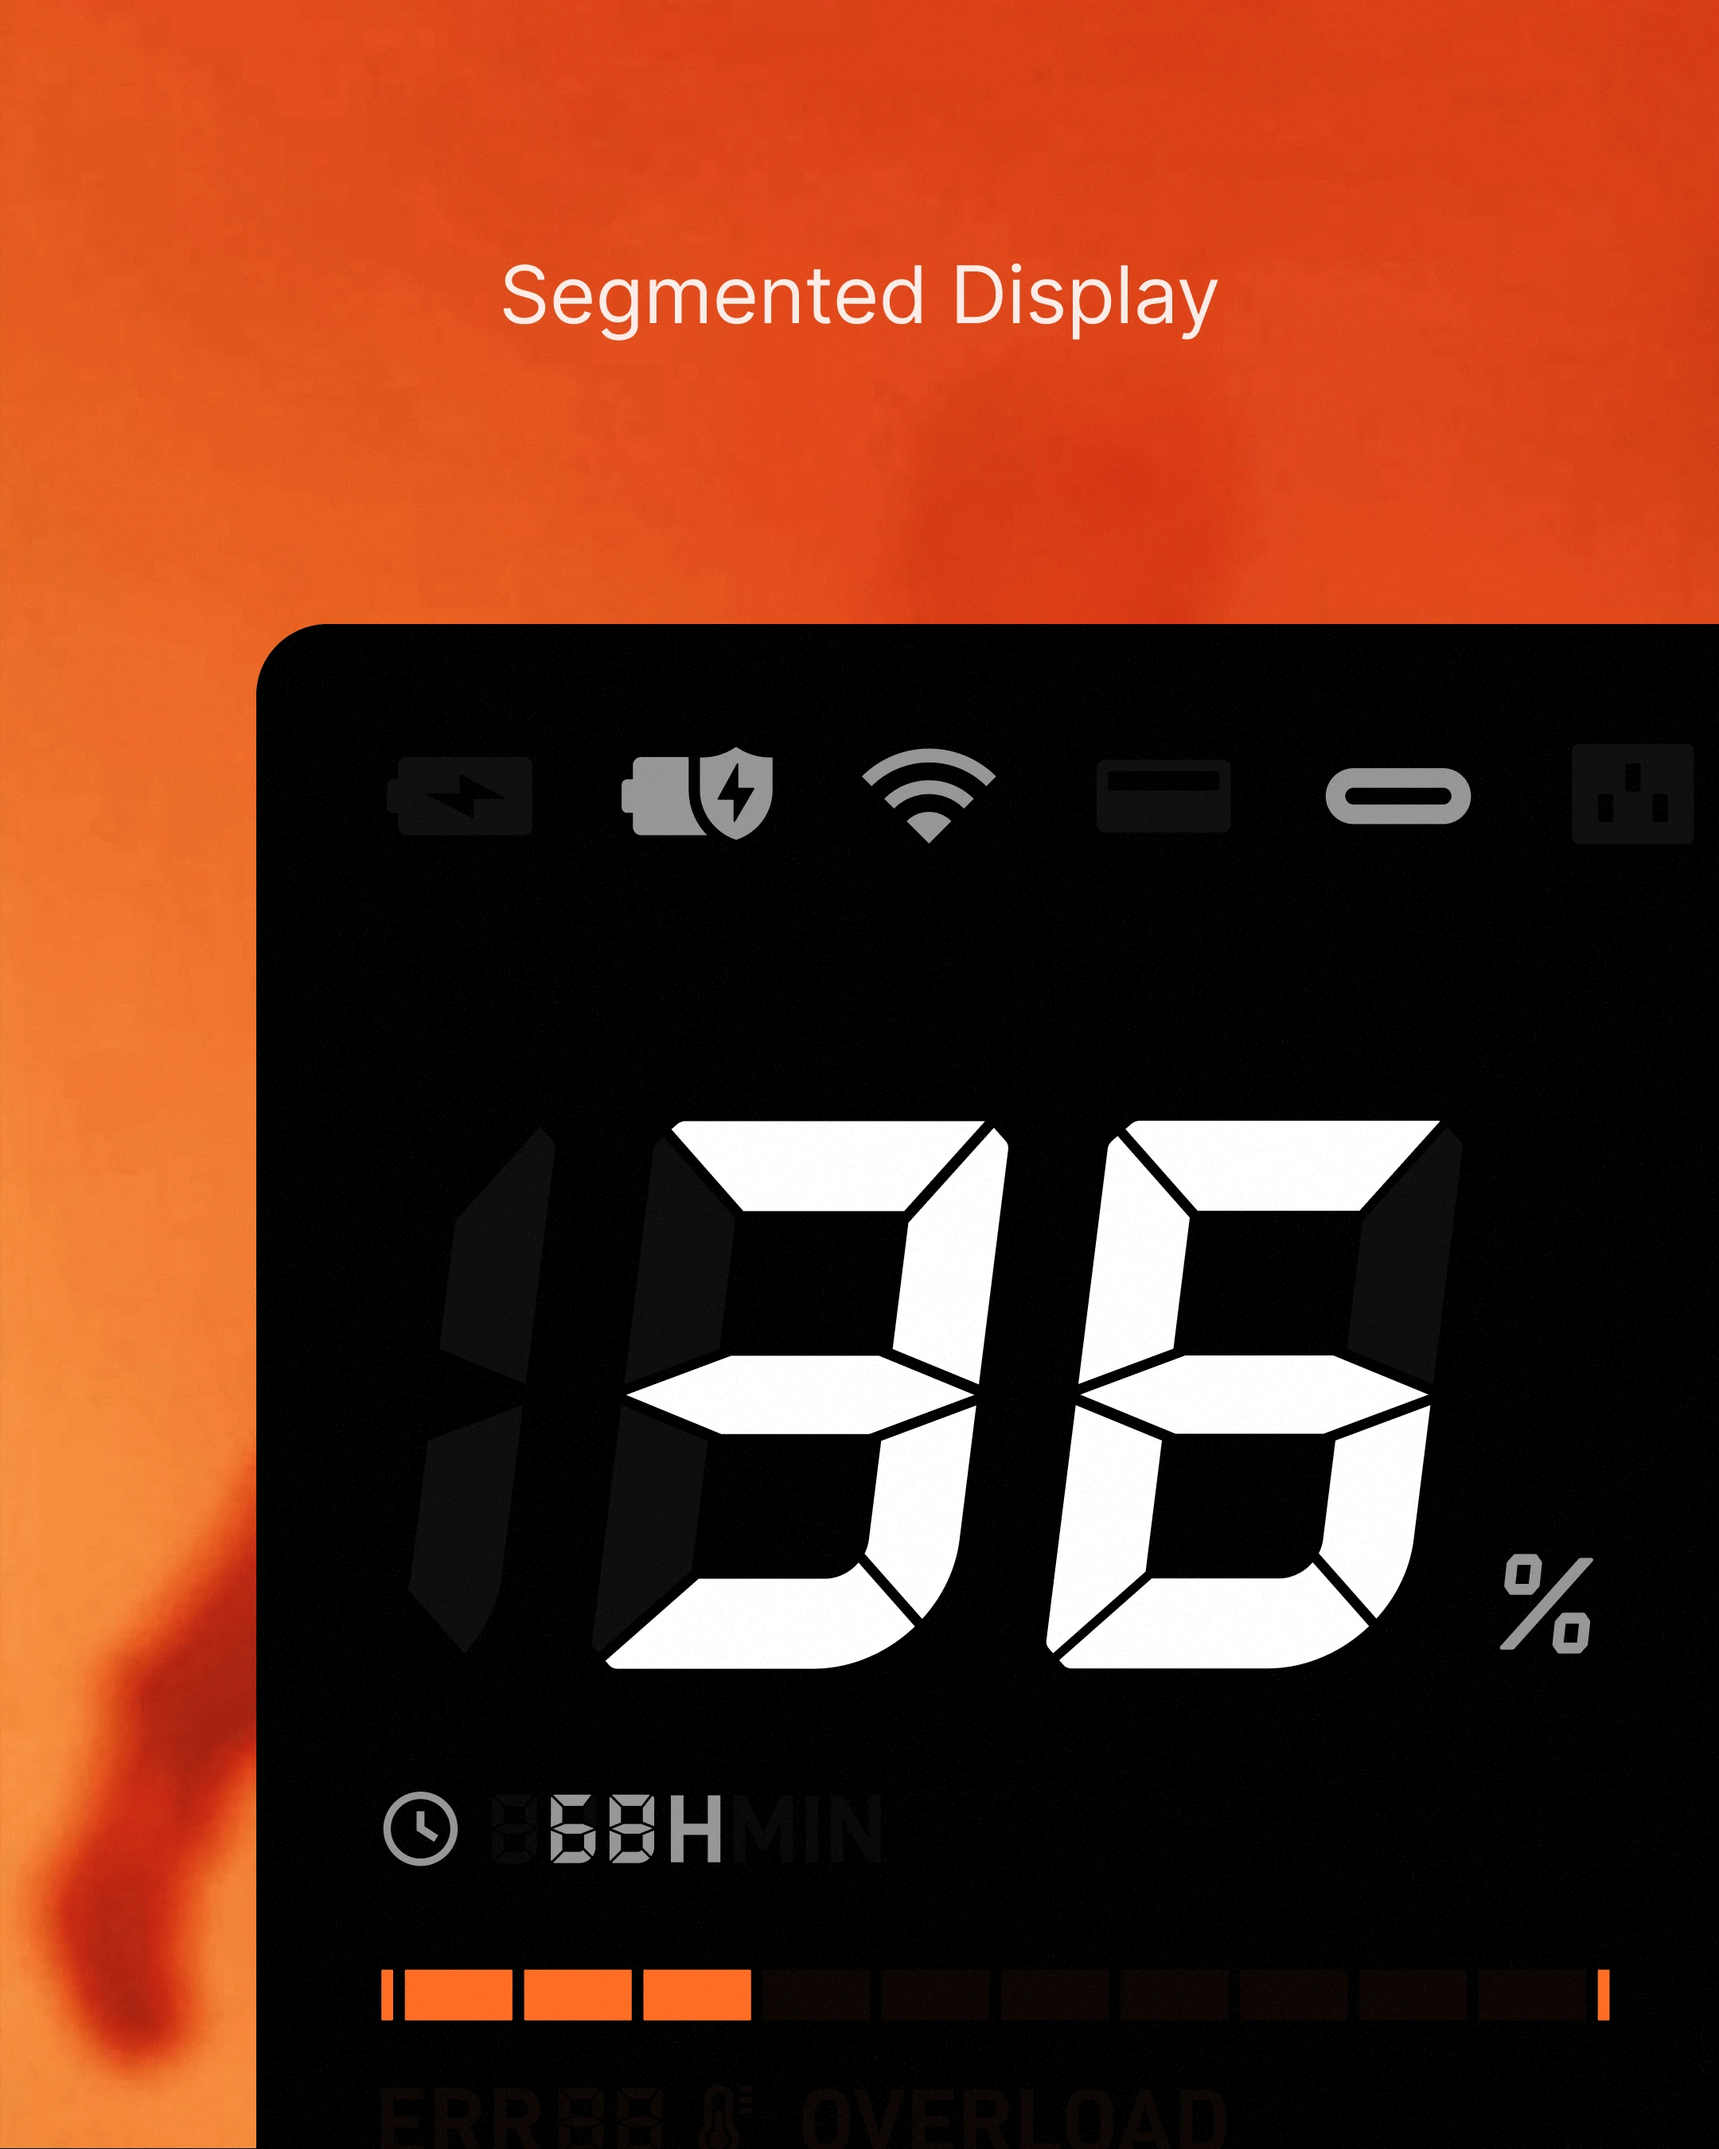
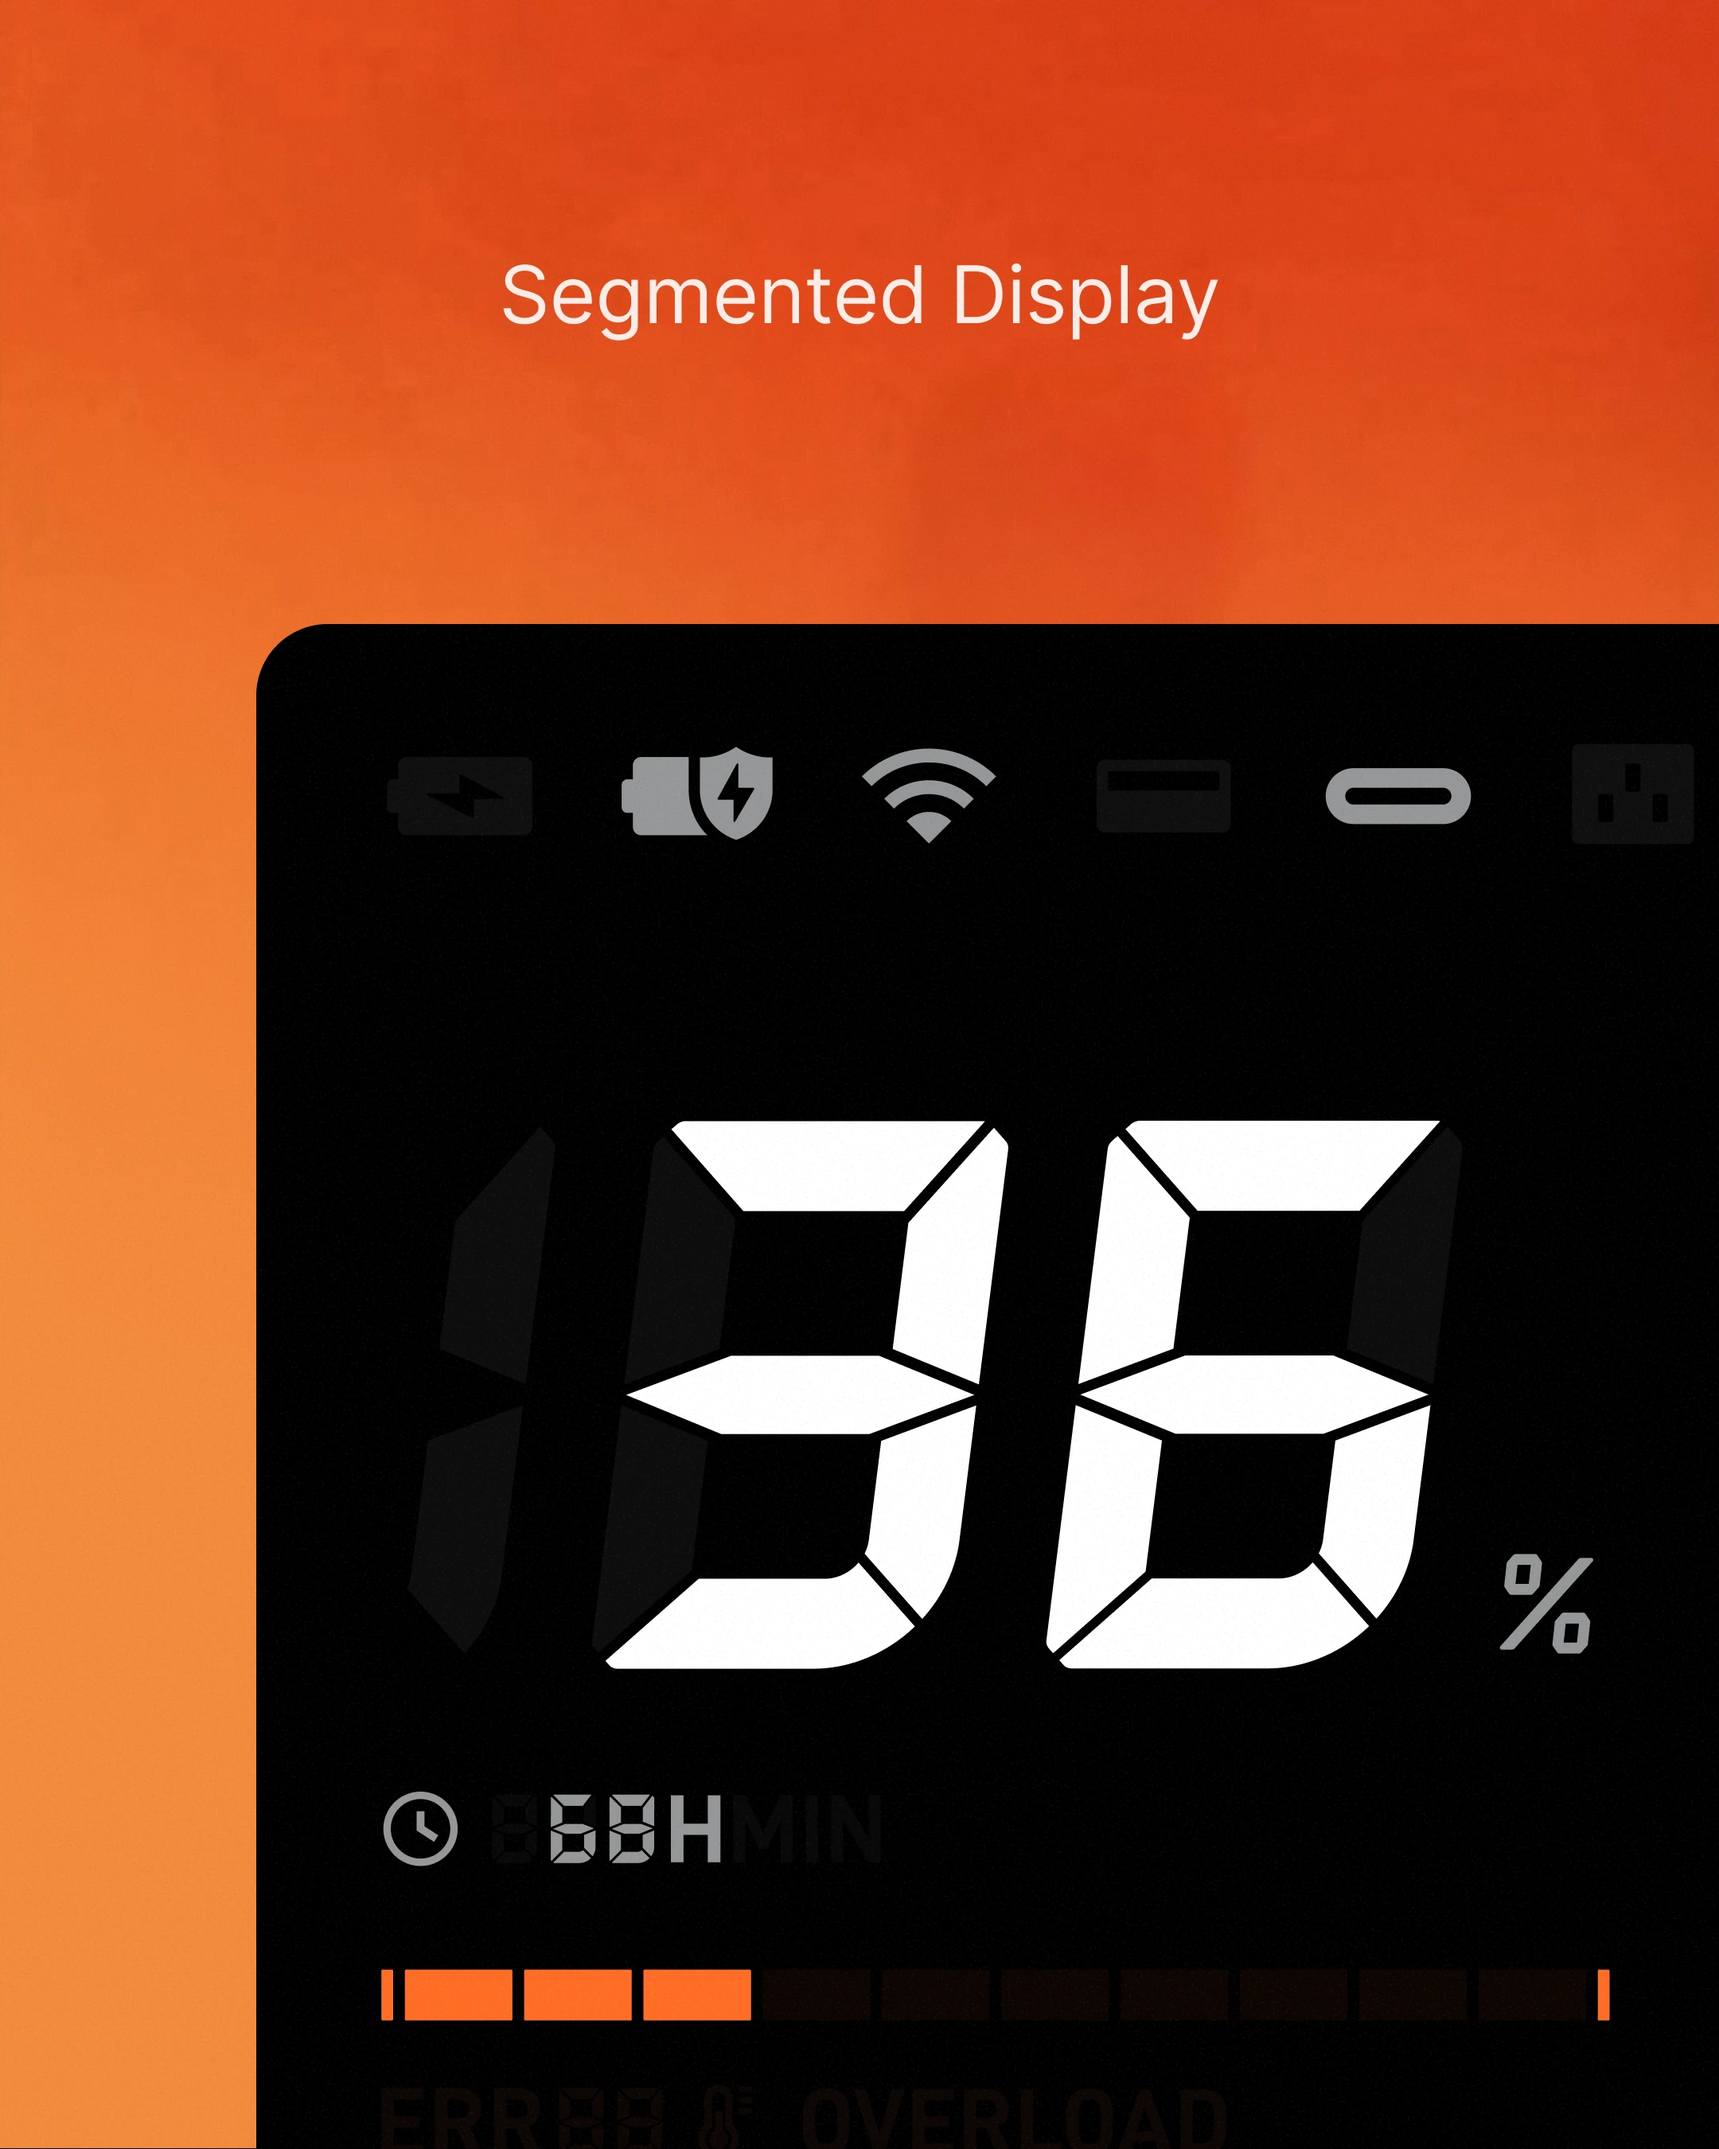
Disable Pinterest hover buttons on portfolio media

Changed region(s): [[0.0, 0.6533, 0.1551, 0.9644]]

diff --git a/app/project-link.tsx b/app/project-link.tsx
@@ -17,5 +17,5 @@ export function ProjectLink({ project, featuredIndex }: { project: ProjectData; 
   const cover = sourceCover;
   const isVideo = Boolean(cover?.split('?')[0].endsWith('.mp4'));
 
-  return <Link className="project-card" href={href} data-prefetch-media={projectEntryVideos[project.slug]}><div className={`card-media ${project.color}`}>{cover ? isVideo ? <ViewportVideo src={cover} mobile /> : <Image src={cover} fill sizes="(max-width: 800px) 100vw, (max-width: 1200px) 50vw, 33vw" alt="" loading={featuredIndex === 0 ? 'eager' : 'lazy'} unoptimized draggable={false} data-pin-nopin="true" /> : <span>{(project.titleEn ?? project.title).slice(0, 1)}</span>}</div><div className="card-copy"><h2>{project.titleEn ?? project.title}</h2><p><Localized en={project.textEn} zh={project.text} /></p>{featuredIndex !== undefined ? <small>( {String(featuredIndex + 1).padStart(2, '0')} )</small> : null}</div></Link>;
+  return <Link className="project-card" href={href} data-prefetch-media={projectEntryVideos[project.slug]}><div className={`card-media ${project.color}`}>{cover ? isVideo ? <ViewportVideo src={cover} mobile /> : <Image src={cover} fill sizes="(max-width: 800px) 100vw, (max-width: 1200px) 50vw, 33vw" alt="" loading={featuredIndex === 0 ? 'eager' : 'lazy'} unoptimized draggable={false} data-pin-nopin="true" data-pin-no-hover="true" /> : <span>{(project.titleEn ?? project.title).slice(0, 1)}</span>}</div><div className="card-copy"><h2>{project.titleEn ?? project.title}</h2><p><Localized en={project.textEn} zh={project.text} /></p>{featuredIndex !== undefined ? <small>( {String(featuredIndex + 1).padStart(2, '0')} )</small> : null}</div></Link>;
 }

diff --git a/app/home-carousel.tsx b/app/home-carousel.tsx
@@ -315,7 +315,10 @@ export function HomeCarousel() {
 
       void Promise.all(
         LETTER_FILES.map(async (name, index) => {
-          const data = await loadJson(`/lottie/letters/${name}.json`);
+          const url = name === 'H1'
+            ? '/lottie/letters/H1.json?v=20261009-h1-3'
+            : `/lottie/letters/${name}.json`;
+          const data = await loadJson(url);
           markLottieProgress(40 + ((index + 1) / LETTER_FILES.length) * 35);
           return { name, data };
         }),
@@ -561,7 +564,7 @@ export function HomeCarousel() {
       <div ref={trackRef} className="cf-covers-track cf-covers-desktop" style={{ height: `${featured.length + 1}00vh` }}>
         <div className="cf-covers-sticky">
           {featured.map((project, index) => <Link className="cf-cover" href={`/work/${project.slug}`} key={project.slug} ref={(element) => { coverRefs.current[index] = element; }}>
-            {coverMode === 'desktop' ? <Image src={coverFor(project)} alt="" fill sizes="100vw" loading="lazy" unoptimized draggable={false} /> : null}
+            {coverMode === 'desktop' ? <Image src={coverFor(project)} alt="" fill sizes="100vw" loading="lazy" unoptimized draggable={false} data-pin-nopin="true" data-pin-no-hover="true" /> : null}
             <span className="cf-project-index">{String(index + 1).padStart(2, '0')}</span>
             <span className="cf-project-name">{String(project.titleEn ?? project.title).split('').map((character, letter) => <span className="cf-name-letter" key={`${character}-${letter}`}>{character === ' ' ? '\u00a0' : character}</span>)}</span>
             <span className="cf-project-description">

diff --git a/app/globals.css b/app/globals.css
@@ -41,7 +41,7 @@ a:focus-visible,button:focus-visible,summary:focus-visible{outline:2px solid var
 .language-toggle{display:flex;align-items:center;justify-content:center;flex:0 0 3.2em;width:3.2em;height:1em;margin:0;padding:0;border:0;background:transparent;color:#7d7d7d;font-family:Aspekta,Arial,sans-serif;font-size:18.75px;font-weight:500;letter-spacing:.2px;line-height:1;text-align:center;cursor:pointer;transition:color .2s ease;-webkit-tap-highlight-color:transparent}
 .language-toggle-content{display:flex;align-items:center;gap:.08em;white-space:nowrap}
 .language-toggle i{font:inherit;font-style:normal;color:inherit;pointer-events:none}
-.language-option-zh{display:inline-block;font-family:"OPPO Sans 4.0","OPPO Sans",sans-serif;font-size: 18.75px;font-weight: 600;line-height:1}
+.language-option-zh{display:inline-block;font-family:"OPPO Sans 4.0","OPPO Sans",sans-serif;font-size:16.75px;font-weight:600;line-height:1}
 @media(hover:hover){
   .nav nav>a:hover,.nav nav>a:focus-visible,.wordmark:hover,.wordmark:focus-visible{color:#fff;opacity:1}
   .wordmark:hover .nav-logo,.wordmark:focus-visible .nav-logo{filter:brightness(0) invert(1)}

diff --git a/app/header.tsx b/app/header.tsx
@@ -76,7 +76,7 @@ export function Header() {
   const links = <><Link className={pathname === '/work' ? 'active' : ''} href="/work" aria-label="Work" aria-current={pathname === '/work' ? 'page' : undefined}>Work</Link><Link className={pathname.startsWith('/about') ? 'active' : ''} href="/about" aria-label="About" aria-current={pathname.startsWith('/about') ? 'page' : undefined}>About</Link></>;
 
   /* the designed logo mark is used on every page */
-  const identity = <img className="nav-logo" src="/logo.svg" alt="Shane Zhu" />;
+  const identity = <img className="nav-logo" src="/logo.svg" alt="Shane Zhu" data-pin-nopin="true" data-pin-no-hover="true" />;
 
   return <header ref={headerRef} className={`nav nav-home${hidden ? ' nav-hidden' : ''}${menuOpen ? ' is-menu-open' : ''}`} onKeyDown={(event) => {
     if (event.key === 'Escape' && menuOpen) {

diff --git a/app/home-particle-field.tsx b/app/home-particle-field.tsx
@@ -595,7 +595,7 @@ export function HomeParticleField({
 
   return <div ref={fieldRef} className="cf-hero-particles">
     {/* eslint-disable-next-line @next/next/no-img-element -- sampling source for WebGL only; never shown */}
-    <img ref={imageRef} alt="" draggable={false} decoding="async" aria-hidden="true" />
+    <img ref={imageRef} alt="" draggable={false} decoding="async" aria-hidden="true" data-pin-nopin="true" data-pin-no-hover="true" />
     <canvas ref={canvasRef} aria-hidden="true" />
     <button
       className="cf-motion-orb"

diff --git a/app/about/page.tsx b/app/about/page.tsx
@@ -61,6 +61,8 @@ export default function About() {
               height={1049}
               decoding="async"
               fetchPriority="high"
+              data-pin-nopin="true"
+              data-pin-no-hover="true"
             />
           </div>
           <figcaption><Localized en="Shane Zhu" zh="朱晓生" /><br /><Localized en="Senior UI Designer · Shenzhen, CN" zh="高级 UI 设计师 · 中国深圳" /></figcaption>

diff --git a/app/work/[slug]/viewport-video.tsx b/app/work/[slug]/viewport-video.tsx
@@ -343,6 +343,8 @@ export function ViewportVideo({
         draggable={false}
         controlsList="nodownload nofullscreen"
         disablePictureInPicture
+        data-pin-nopin="true"
+        data-pin-no-hover="true"
       >
         {mobile && mobileSrc !== src ? <source src={mobileSrc} media="(max-width: 1024px), (pointer: coarse)" type="video/mp4" /> : null}
         <source src={src} type="video/mp4" />

diff --git a/app/work/[slug]/page.tsx b/app/work/[slug]/page.tsx
@@ -75,6 +75,8 @@ function Placeholder({ number, projectSlug, tone = 'dark', showSlotNumber = true
     ? `${src}?v=20261008-faststart`
     : src === '/media/dji-avinox/08.webp'
     ? `${src}?v=20261008-avinox-08`
+    : src === '/media/dji-power/09.webp'
+    ? `${src}?v=20261009-power-09`
     : src && projectSlug === 'dji-power'
     ? `${src}?v=20261008-media`
     : src && projectSlug === 'dji-aura'

diff --git a/app/work/[slug]/case-still.tsx b/app/work/[slug]/case-still.tsx
@@ -110,6 +110,7 @@ export function CaseStill({
           decoding="async"
           draggable={false}
           data-pin-nopin="true"
+          data-pin-no-hover="true"
         />
       </picture>
       <span className="case-video-mask" aria-hidden />
